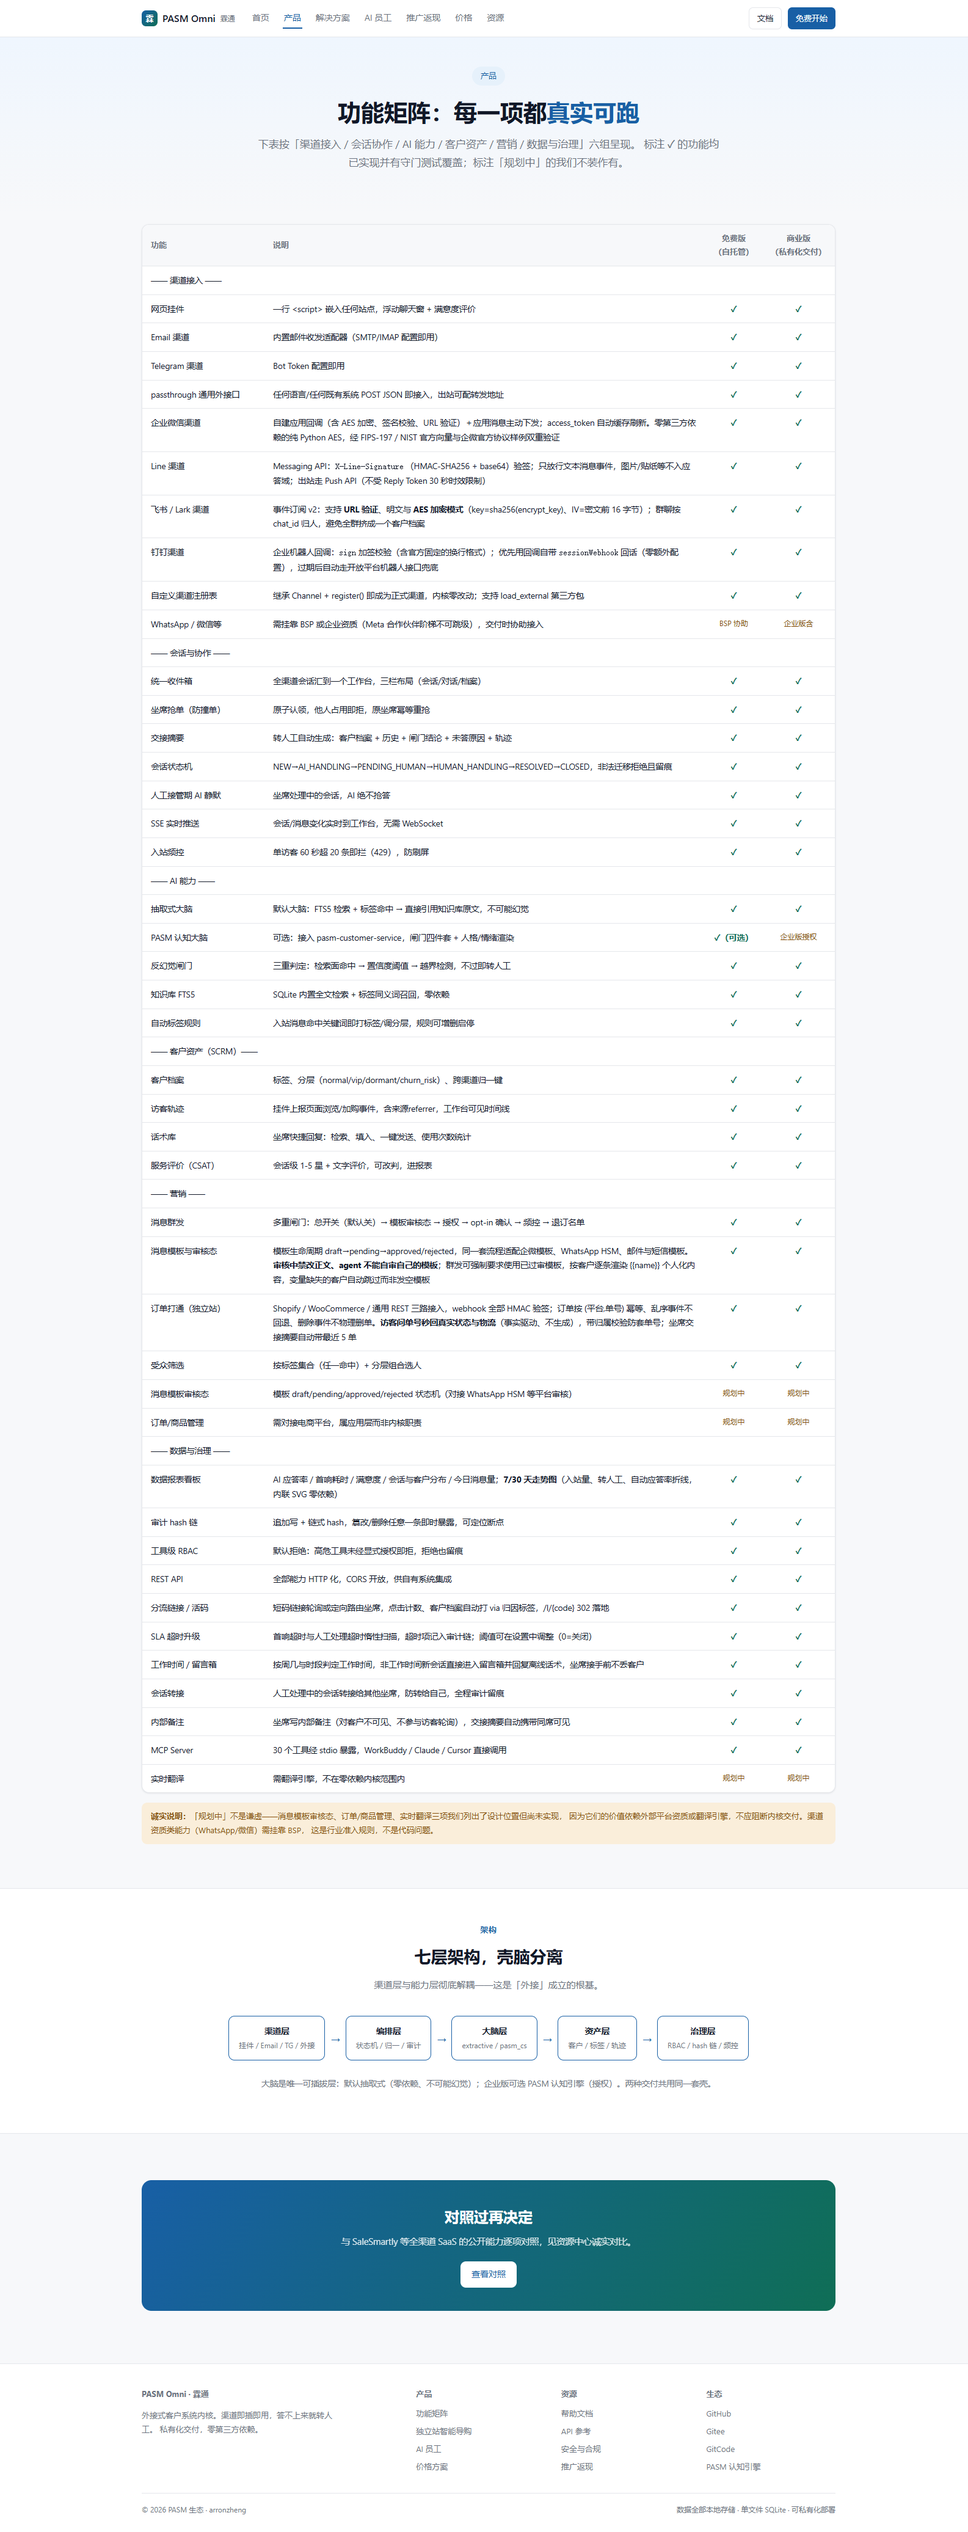
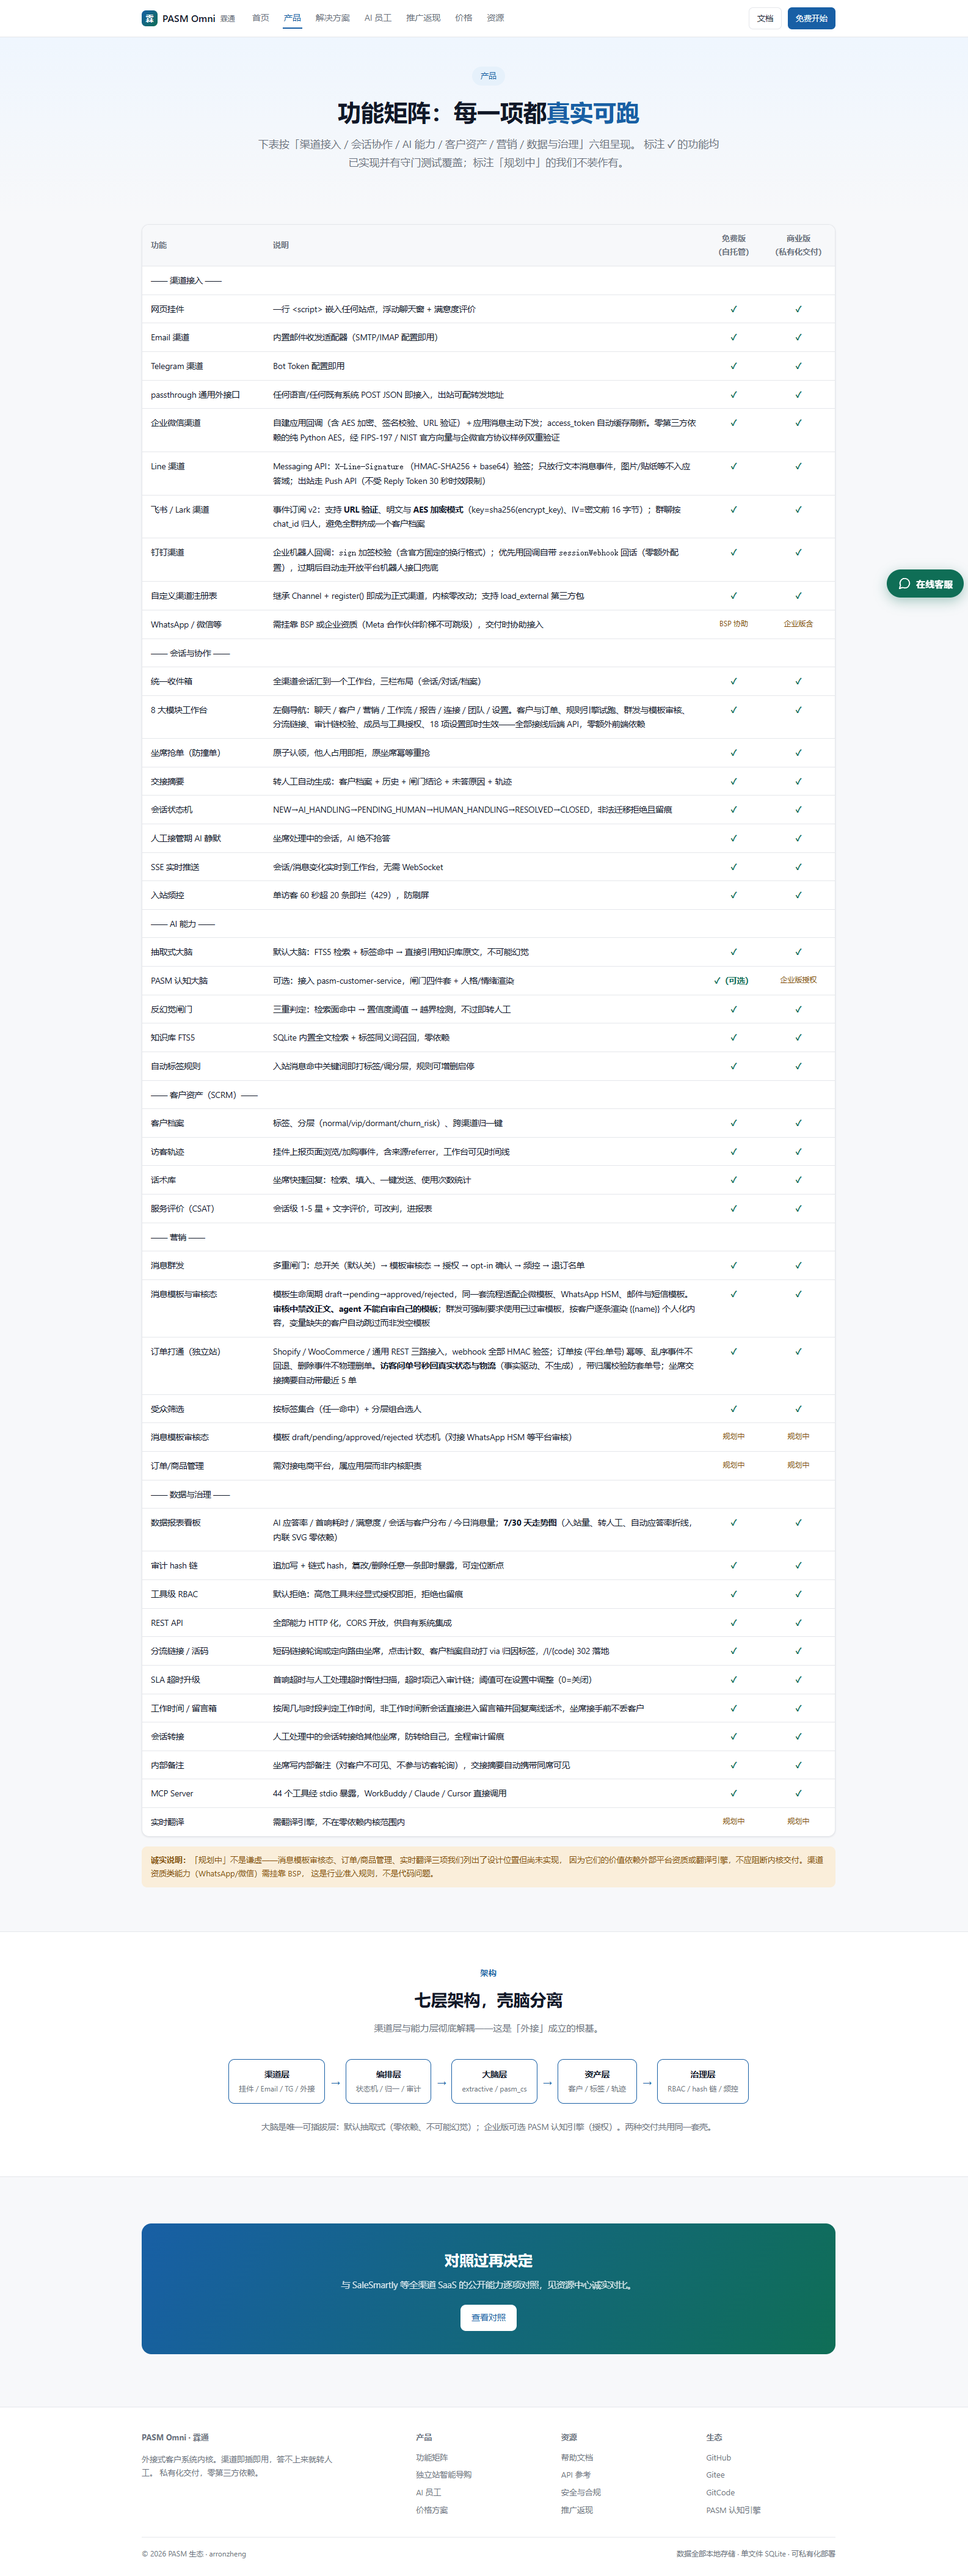
同步站点与截图（2026-10-13 17:32）

diff --git a/index.html b/index.html
@@ -66,7 +66,7 @@
 <!-- ============ 数据条 ============ -->
 <div class="stats" data-page-node-id="22Tw3ROP0xWe7QHXl8gbhG">
   <div class="wrap" data-page-node-id="vGQcNKYviVLgDQLDGhEqsw">
-    <div data-page-node-id="lYCY4Gp0DDqfr3FFEvQej7"><div class="n" data-page-node-id="ECaaDFsiVypt14SHJozntV">692</div><div class="l" data-page-node-id="J91rXlqk6mL8lLIqAOI8Ho">项守门测试全绿</div></div>
+    <div data-page-node-id="lYCY4Gp0DDqfr3FFEvQej7"><div class="n" data-page-node-id="ECaaDFsiVypt14SHJozntV">946</div><div class="l" data-page-node-id="J91rXlqk6mL8lLIqAOI8Ho">项守门测试全绿</div></div>
     <div data-page-node-id="hNg3zXiuanEDFuc1r7LsIe"><div class="n" data-page-node-id="k6Jsqs9PBOsUVg6CZZdYMF">0</div><div class="l" data-page-node-id="uF23lLeq14WNopgv9WhEKk">第三方依赖（标准库实现）</div></div>
     <div data-page-node-id="YjcoiCIrp7rKEmVw00oYfW"><div class="n" data-page-node-id="c6RJ12TKzEJ2uwyAlbEegu">30</div><div class="l" data-page-node-id="4bSNCz8OAAZYpp7z96a7Lk">个 MCP 工具直接调用</div></div>
     <div data-page-node-id="jBxhEVTY603qp8KxJBxSWy"><div class="n" data-page-node-id="wGExHQqg161wCgB8ezz1DQ">8</div><div class="l" data-page-node-id="XgDG2JQHxKpl8alOb4UMUF">内置渠道，外接不限</div></div>
@@ -146,7 +146,7 @@
       <figure class="shot" data-page-node-id="F4AMJnRJptcBNOABNpvm6w">
         <div class="bar" data-page-node-id="PLaBhoxsxyrjnQ9TehyiOH"><i data-page-node-id="vNfKIpKKRoTPULh4uDDOYt"></i><i data-page-node-id="9cipGubc8VJy4OJLap97Ip"></i><i data-page-node-id="M8VoNyPeOiIpj6I0HYPHk7"></i></div>
         <img src="screenshots/console-workbench.png" alt="PASM Omni 运营工作台" loading="lazy" data-page-node-id="OF5S82xJKqNIIkN376BHkX">
-        <figcaption data-page-node-id="R1EQoHlZGKlEtx3AbPZLsD"><b data-page-node-id="9hBxBmRqbaJYSVk4MWMDND">坐席工作台</b>　统一收件箱、抢单、交接摘要、订单与数据报表一屏在手</figcaption>
+        <figcaption data-page-node-id="R1EQoHlZGKlEtx3AbPZLsD"><b data-page-node-id="9hBxBmRqbaJYSVk4MWMDND">坐席工作台</b>　8 大模块：聊天 / 客户 / 营销 / 工作流 / 报告 / 连接 / 团队 / 设置 —— 收件箱、客户与订单、规则引擎、群发与模板审核、审计链一屏在手</figcaption>
       </figure>
       <figure class="shot" data-page-node-id="s34obEy8YvxBODfJDLLeNK">
         <div class="bar" data-page-node-id="pyCBMRgsVA4CPZvQQfjFzl"><i data-page-node-id="pyZOkqH4XEVv3ljGcqe3Lx"></i><i data-page-node-id="2A0vYAmHZFofk1GOdRa3J4"></i><i data-page-node-id="cRWuGEff3Q0groISmbNJA6"></i></div>
@@ -203,7 +203,7 @@
           <li data-page-node-id="ZszA6muGyDby5NGE8WvVHz">起服务：<code data-page-node-id="knoiPtGhtunrewwDOdo4dF">pasm-omni --db omni.db serve</code></li>
           <li data-page-node-id="VSA9twEwiKbgWU9NKEOQVd">打开坐席工作台：<b data-page-node-id="phK2af1r6vDYmnkHs80fDx">http://127.0.0.1:8770/</b></li>
           <li data-page-node-id="MfRBhC8wLsyyCMSVnwepTa">把 widget.js 嵌到你的站点，访客即可对话</li>
-          <li data-page-node-id="oNqNuUWd9WNw7E9MjWvNQe">起 MCP 服务：<code data-page-node-id="iWNUBM0dgY30EzMpkL6gY9">pasm-omni --db omni.db serve-mcp</code>，AI 客户端直接调用 30 个工具</li>
+          <li data-page-node-id="oNqNuUWd9WNw7E9MjWvNQe">起 MCP 服务：<code data-page-node-id="iWNUBM0dgY30EzMpkL6gY9">pasm-omni --db omni.db serve-mcp</code>，AI 客户端直接调用 44 个工具</li>
         </ul>
       </div>
       <pre class="code" data-page-node-id="O0VchAAmqh9S8zkc9aZ6PR"><span class="cm" data-page-node-id="zBdzLx0bUGMiPTQrynlK3i"># 一条命令验证整条链路（演示模式）</span>
@@ -227,7 +227,7 @@
   <div class="wrap" data-page-node-id="Qc84GFFPhCuVliylYa9rNX">
     <div class="cta-bar" data-page-node-id="SgY0csloDUkKRMnx6oI3Dr">
       <h2 data-page-node-id="1gudgSepnokl4I2l0PRvTx">先评审，再决定</h2>
-      <p data-page-node-id="DDiq28bOrAtzY59lZsFqxW">完整设计文档、规格契约与 692 项守门测试（可现场核验）。</p>
+      <p data-page-node-id="DDiq28bOrAtzY59lZsFqxW">完整设计文档、规格契约与 946 项守门测试（可现场核验）。</p>
       <a class="btn" href="resources.html" data-page-node-id="4ntRL2gmgMJsvFYhnYL0sX">进入资源中心</a>
     </div>
   </div>

diff --git a/products.html b/products.html
@@ -59,6 +59,7 @@
 
           <tr data-page-node-id="h16ABy7qUqtPqz7BhBQQyN"><td colspan="4" class="grp" data-page-node-id="QTikCPrfCP7opUuUbDekd6">—— 会话与协作 ——</td></tr>
           <tr data-page-node-id="wBkeJ5dV0b2OobZErxHFdV"><td data-page-node-id="DjF5KecTPKwUmCEnRMhUEi">统一收件箱</td><td data-page-node-id="lIc6E88AZEZhRUU5McEHUU">全渠道会话汇到一个工作台，三栏布局（会话/对话/档案）</td><td class="center yes" data-page-node-id="IzPAURwLaaD5ZKv9Mf12pv">✓</td><td class="center yes" data-page-node-id="juE1793rU6jLx3LW2RUew0">✓</td></tr>
+          <tr><td>8 大模块工作台</td><td>左侧导航：聊天 / 客户 / 营销 / 工作流 / 报告 / 连接 / 团队 / 设置。客户与订单、规则引擎试跑、群发与模板审核、分流链接、审计链校验、成员与工具授权、18 项设置即时生效——全部接线后端 API，零额外前端依赖</td><td class="center yes">✓</td><td class="center yes">✓</td></tr>
           <tr data-page-node-id="YHIWaGATHaV7rnKfSvA9DU"><td data-page-node-id="NbRETuJOLviPIjhMogGcO2">坐席抢单（防撞单）</td><td data-page-node-id="bWM4MB5A2ZFjjlxpouJBXL">原子认领，他人占用即拒，原坐席幂等重抢</td><td class="center yes" data-page-node-id="6QLg6QE870thlrhIOnHDyW">✓</td><td class="center yes" data-page-node-id="afsfs4Y7nK2wwnFCN9Cb7a">✓</td></tr>
           <tr data-page-node-id="W7iixnedKq6aBKl4zKEIIU"><td data-page-node-id="5CefEv2K75ZtmlJpW3zknd">交接摘要</td><td data-page-node-id="hez5eryvLXIeB6WWOHQOZn">转人工自动生成：客户档案 + 历史 + 闸门结论 + 未答原因 + 轨迹</td><td class="center yes" data-page-node-id="jQ9VXUBQDeopeY3B1M851P">✓</td><td class="center yes" data-page-node-id="szcvEXeyTfAFNBl90AA4b9">✓</td></tr>
           <tr data-page-node-id="ArtxgYLw3BrxSA9pbUP6ZM"><td data-page-node-id="tifUa031fpKuWagMElMdCj">会话状态机</td><td data-page-node-id="t4hBMAibz9J9ilGDE9p2BO">NEW→AI_HANDLING→PENDING_HUMAN→HUMAN_HANDLING→RESOLVED→CLOSED，非法迁移拒绝且留痕</td><td class="center yes" data-page-node-id="852x2hl4JSri6ZAQCGYsfi">✓</td><td class="center yes" data-page-node-id="yiSxpT3E31sUSHvXpsRwry">✓</td></tr>
@@ -97,7 +98,7 @@
           <tr><td>工作时间 / 留言箱</td><td>按周几与时段判定工作时间，非工作时间新会话直接进入留言箱并回复离线话术，坐席接手前不丢客户</td><td class="center yes">✓</td><td class="center yes">✓</td></tr>
           <tr><td>会话转接</td><td>人工处理中的会话转接给其他坐席，防转给自己，全程审计留痕</td><td class="center yes">✓</td><td class="center yes">✓</td></tr>
           <tr><td>内部备注</td><td>坐席写内部备注（对客户不可见、不参与访客轮询），交接摘要自动携带同席可见</td><td class="center yes">✓</td><td class="center yes">✓</td></tr>
-          <tr data-page-node-id="w4NeL8y2YZHHPBx4W01W8k"><td data-page-node-id="Kng6deTzVpNjcGkqyTiMUk">MCP Server</td><td data-page-node-id="ZyWQQFQbffl11HZbc16M9p">30 个工具经 stdio 暴露，WorkBuddy / Claude / Cursor 直接调用</td><td class="center yes" data-page-node-id="YgCG5LYzBVhI1V6V6LEnju">✓</td><td class="center yes" data-page-node-id="qDFcldOCzSpSJZaPJ2btcS">✓</td></tr>
+          <tr data-page-node-id="w4NeL8y2YZHHPBx4W01W8k"><td data-page-node-id="Kng6deTzVpNjcGkqyTiMUk">MCP Server</td><td data-page-node-id="ZyWQQFQbffl11HZbc16M9p">44 个工具经 stdio 暴露，WorkBuddy / Claude / Cursor 直接调用</td><td class="center yes" data-page-node-id="YgCG5LYzBVhI1V6V6LEnju">✓</td><td class="center yes" data-page-node-id="qDFcldOCzSpSJZaPJ2btcS">✓</td></tr>
           <tr data-page-node-id="eUFcYBoF2ywSLEibtmAigo"><td data-page-node-id="OvRc3Pz4pnOt7IGARf696f">实时翻译</td><td data-page-node-id="NA5l9ApdAkStPDinBuH8zB">需翻译引擎，不在零依赖内核范围内</td><td class="center plan" data-page-node-id="bO6HSi8XLYPncVnW9Lz1KH">规划中</td><td class="center plan" data-page-node-id="r2eJ8Z8KW1gxGYzX58YIAJ">规划中</td></tr>
         </tbody>
       </table>

diff --git a/resources.html b/resources.html
@@ -4,7 +4,7 @@
 <meta charset="utf-8">
 <meta name="viewport" content="width=device-width,initial-scale=1">
 <title>资源中心 · PASM Omni 霖通 —— 文档 / API / 安全 / 下载</title>
-<meta name="description" content="PASM Omni 资源中心：快速开始、CLI 命令速查、REST API 与 MCP 30 工具参考、双版本策略、安全与合规说明、下载与常见问题。">
+<meta name="description" content="PASM Omni 资源中心：快速开始、CLI 命令速查、REST API 与 MCP 44 工具参考、双版本策略、安全与合规说明、下载与常见问题。">
 <link rel="stylesheet" href="assets/site.css">
 </head>
 <body>
@@ -234,7 +234,7 @@
           <tr><td>AI 员工</td><td>AI 机器人托管 + AI 成员消息额度</td><td>AI 接待员 + AI 助手；反幻觉闸门透明可溯</td></tr>
           <tr><td>SCRM</td><td>客户标签/分层/订单跟进/商品管理</td><td>标签/分层/访客轨迹/自动规则；订单商品管理为规划中</td></tr>
           <tr><td>数据资产归属</td><td>厂商云上，坐席个人账号沉淀</td><td>企业本地单文件库，资产完全自有</td></tr>
-          <tr><td>AI 客户端调用</td><td>API / Webhook</td><td>REST + MCP 30 工具（可被 AI 直接编排）</td></tr>
+          <tr><td>AI 客户端调用</td><td>API / Webhook</td><td>REST + MCP 44 工具（可被 AI 直接编排）</td></tr>
           <tr><td>源码</td><td>不公开（签约可授权）</td><td>不公开</td></tr>
         </tbody>
       </table>
@@ -256,12 +256,12 @@
         <div class="a">免费版与商业版都是：只用 Python 标准库（sqlite3 / http.server / hashlib / json），Python 3.11+ 即可运行。CI 里有静态扫描守门：包内任何顶层 import pasm 都会让测试失败。</div>
       </details>
       <details>
-        <summary>692 项守门测试是什么？</summary>
-        <div class="a">四套自动化测试：端到端 46 项（渠道/状态机/闸门/审计）、大脑层 34 项（含 PASM 真实集成）、功能补强 37 项（本轮全部 bug 修复与新功能）、HTTP 层 48 项（真实服务全链路）。全部退出码 0。</div>
+        <summary>946 项守门测试是什么？</summary>
+        <div class="a">16 套自动化测试共 946 项，全部退出码 0：端到端 46、大脑层 34（含 PASM 真实集成）、功能补强 51、坐席 50、分流链接 34、运维件 43、企微 60、模板审核 57、权限越权 83、订单 88、渠道扩展 111、HTTP 全链路 50、规则引擎 84、话术推荐 45、多语言 42、营销工作流 63。</div>
       </details>
       <details>
         <summary>MCP 客户端怎么接？</summary>
-        <div class="a">在 MCP 客户端配置里启动 <code>pasm-omni --db omni.db serve-mcp</code>，initialize 后即可见 30 个工具。高危工具先用 CLI grant 授权。</div>
+        <div class="a">在 MCP 客户端配置里启动 <code>pasm-omni --db omni.db serve-mcp</code>，initialize 后即可见 44 个工具。高危工具先用 CLI grant 授权。</div>
       </details>
       <details>
         <summary>数据库能迁到 PostgreSQL 吗？</summary>

diff --git a/pricing.html b/pricing.html
@@ -54,7 +54,7 @@
           <li>extractive 抽取式大脑</li>
           <li>网页挂件 / Email / Telegram / 外接口</li>
           <li>话术库 / 报表 / 服务评价 / 访客轨迹</li>
-          <li>MCP 30 工具</li>
+          <li>MCP 44 工具</li>
           <li class="off">PASM 认知大脑（可自行安装 pasm-omni[pasm]）</li>
           <li class="off">技术支持（社区 Issues）</li>
         </ul>
@@ -154,7 +154,7 @@
           <tr><td>话术库 / 服务评价 / 访客轨迹</td><td class="center yes">✓</td><td class="center yes">✓</td><td class="center yes">✓</td><td class="center yes">✓</td></tr>
           <tr><td>数据报表 / 自动标签规则</td><td class="center yes">✓</td><td class="center yes">✓</td><td class="center yes">✓</td><td class="center yes">✓</td></tr>
           <tr><td>审计 hash 链 / RBAC / 群发闸门</td><td class="center yes">✓</td><td class="center yes">✓</td><td class="center yes">✓</td><td class="center yes">✓</td></tr>
-          <tr><td>MCP Server（30 工具）</td><td class="center yes">✓</td><td class="center yes">✓</td><td class="center yes">✓</td><td class="center yes">✓</td></tr>
+          <tr><td>MCP Server（44 工具）</td><td class="center yes">✓</td><td class="center yes">✓</td><td class="center yes">✓</td><td class="center yes">✓</td></tr>
           <tr><td>REST API / Webhook</td><td class="center yes">✓</td><td class="center yes">✓</td><td class="center yes">✓</td><td class="center yes">✓</td></tr>
           <tr><td colspan="5" class="grp">—— 版本差异 ——</td></tr>
           <tr><td>源码获取</td><td class="center">不公开<br>（可授权）</td><td class="center no">—</td><td class="center no">—</td><td class="center plan">可选授权</td></tr>

diff --git a/promotion.html b/promotion.html
@@ -133,7 +133,7 @@
     </div>
     <div class="cards">
       <div class="card"><div class="icon">💰</div><h3>高额持续返佣</h3><p>每笔新订阅 10%–30% 返佣，连续 24 个月续费仍分成，一次推荐长期收益。</p></div>
-      <div class="card"><div class="icon">🛡</div><h3>产品真能打</h3><p>692 项守门测试全绿、零依赖可私有化、MCP 原生——推荐出去不砸自己招牌。</p></div>
+      <div class="card"><div class="icon">🛡</div><h3>产品真能打</h3><p>946 项守门测试全绿、零依赖可私有化、MCP 原生——推荐出去不砸自己招牌。</p></div>
       <div class="card"><div class="icon">📚</div><h3>专属顾问支持</h3><p>提供推广素材、答疑与跟进，你只负责分享，其余我们来。</p></div>
       <div class="card"><div class="icon">🌐</div><h3>关系网络复利</h3><p>加入即进入推荐官网络，客户资源互相引荐，收益渠道持续拓宽。</p></div>
     </div>

diff --git a/ai-agents.html b/ai-agents.html
@@ -173,7 +173,7 @@
         <ul class="check-list">
           <li>可私有化：数据在自己机器上，单文件 SQLite</li>
           <li>零依赖可选：纯标准库实现，断网可用</li>
-          <li>MCP 原生：整个系统是 30 个工具，AI 客户端直接编排</li>
+          <li>MCP 原生：整个系统是 44 个工具，AI 客户端直接编排</li>
           <li>闸门与审计全透明：每次判定的分值、原因、大脑名都落链</li>
           <li>中文场景定制：渠道、话术、报表按国内业务打磨</li>
         </ul>
